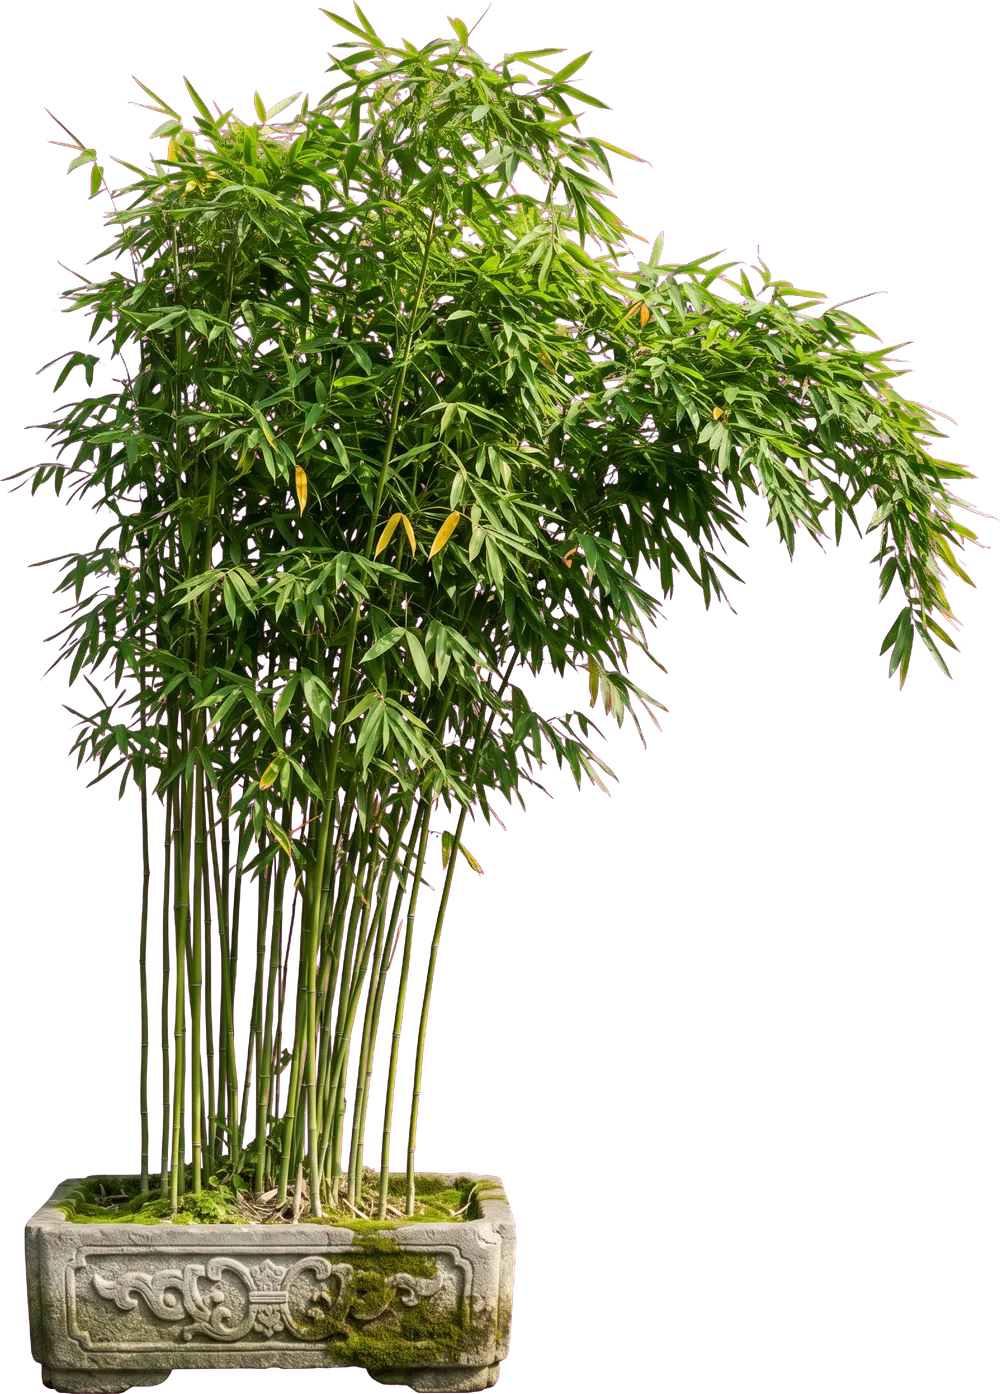
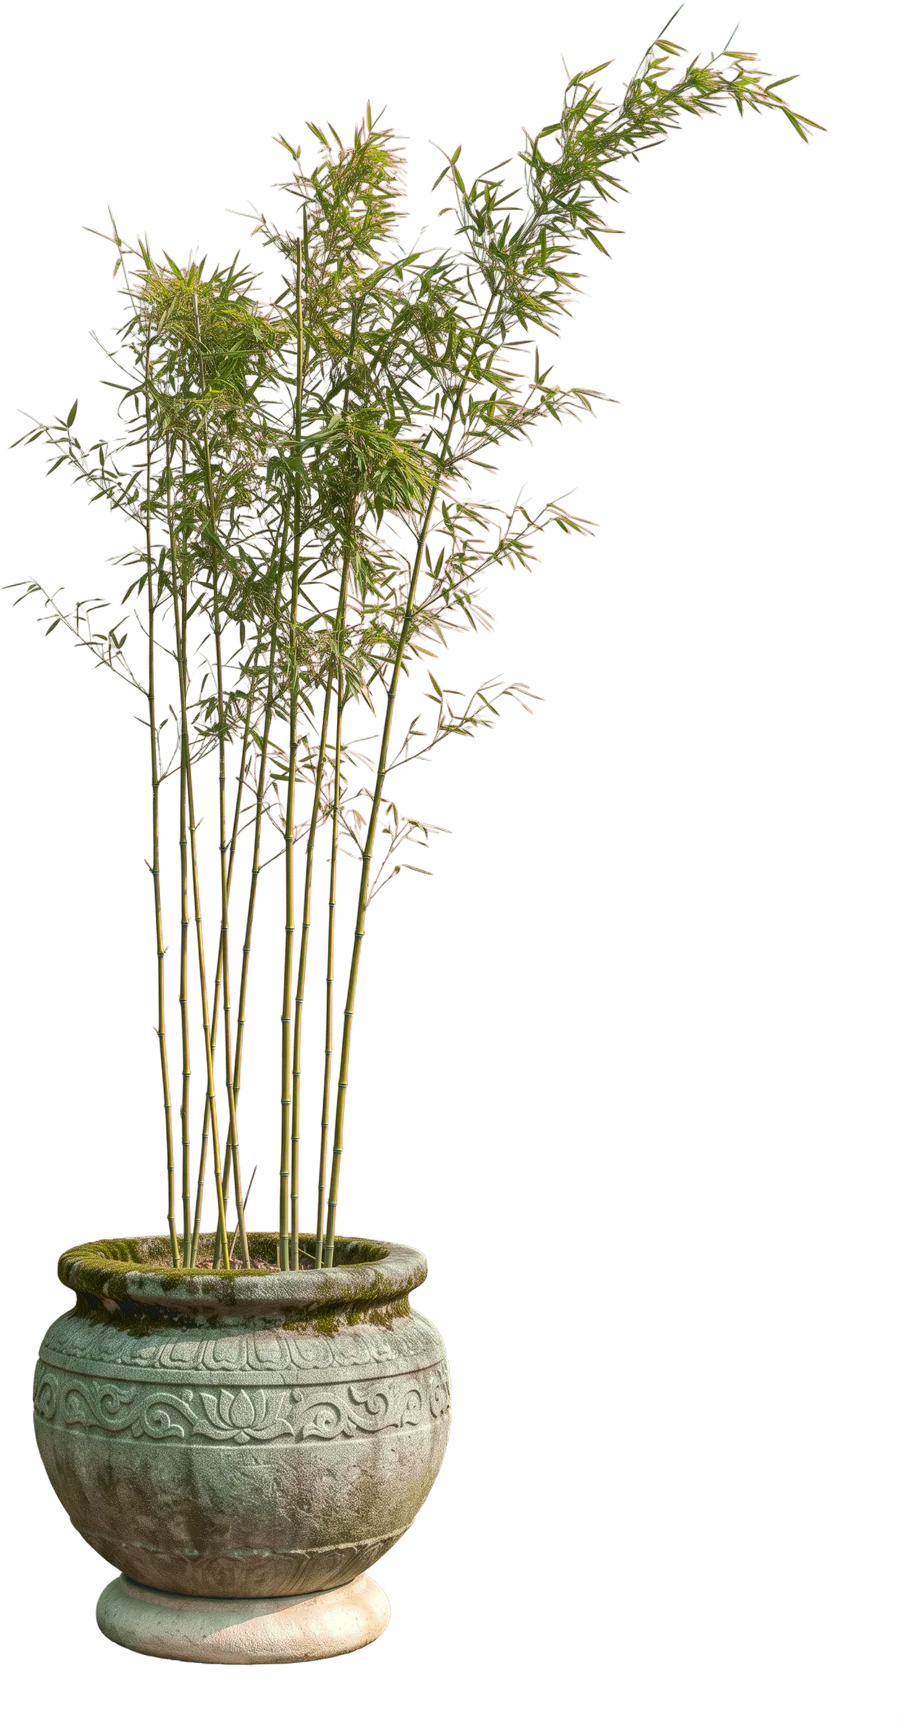
Courtyard: tall airy bamboo in round carved pots standing on the paving; 3D pavers; paving meets the wall with a shaded joint

diff --git a/docs/CREDITS.md b/docs/CREDITS.md
@@ -64,6 +64,6 @@ AI-generated tracks were excluded on purpose: a brand sound should be human-made
 | --- | --- |
 | frame-walnut.jpg (doorway arch frame timber) | Generated for Sia with OpenArt (Nano Banana 2), Plus plan with commercial use rights, 2026-10-26 |
 | door-iron.jpg (doorway door hardware: hinges, rivets, ring pulls) | Generated for Sia with OpenArt (Nano Banana 2), Plus plan with commercial use rights, 2026-10-26 |
-| ground-stone.jpg (doorway forecourt flagstones, mirrored into a seamless tile) | Generated for Sia with OpenArt (Nano Banana 2), Plus plan with commercial use rights, 2026-10-26 |
+| ground-stone.jpg (doorway forecourt flagstones, mirrored into a seamless tile, relief lighting added) | Generated for Sia with OpenArt (Nano Banana 2), Plus plan with commercial use rights, 2026-10-26 |
 | wall-plaster.jpg (doorway wall: moss lime plaster, darkened and mirrored into a seamless tile) | Generated for Sia with OpenArt (Nano Banana 2), Plus plan with commercial use rights, 2026-10-26 |
-| garden-bamboo-a.webp, garden-bamboo-b.webp (courtyard bamboo in stone troughs, canopy leaning toward the door, cut out) | Generated for Sia with OpenArt (Nano Banana 2), Plus plan with commercial use rights, 2026-10-26 |
+| garden-bamboo-a.webp, garden-bamboo-b.webp (courtyard tall airy bamboo in round carved stone pots, cut out) | Generated for Sia with OpenArt (Nano Banana 2), Plus plan with commercial use rights, 2026-10-26 |
